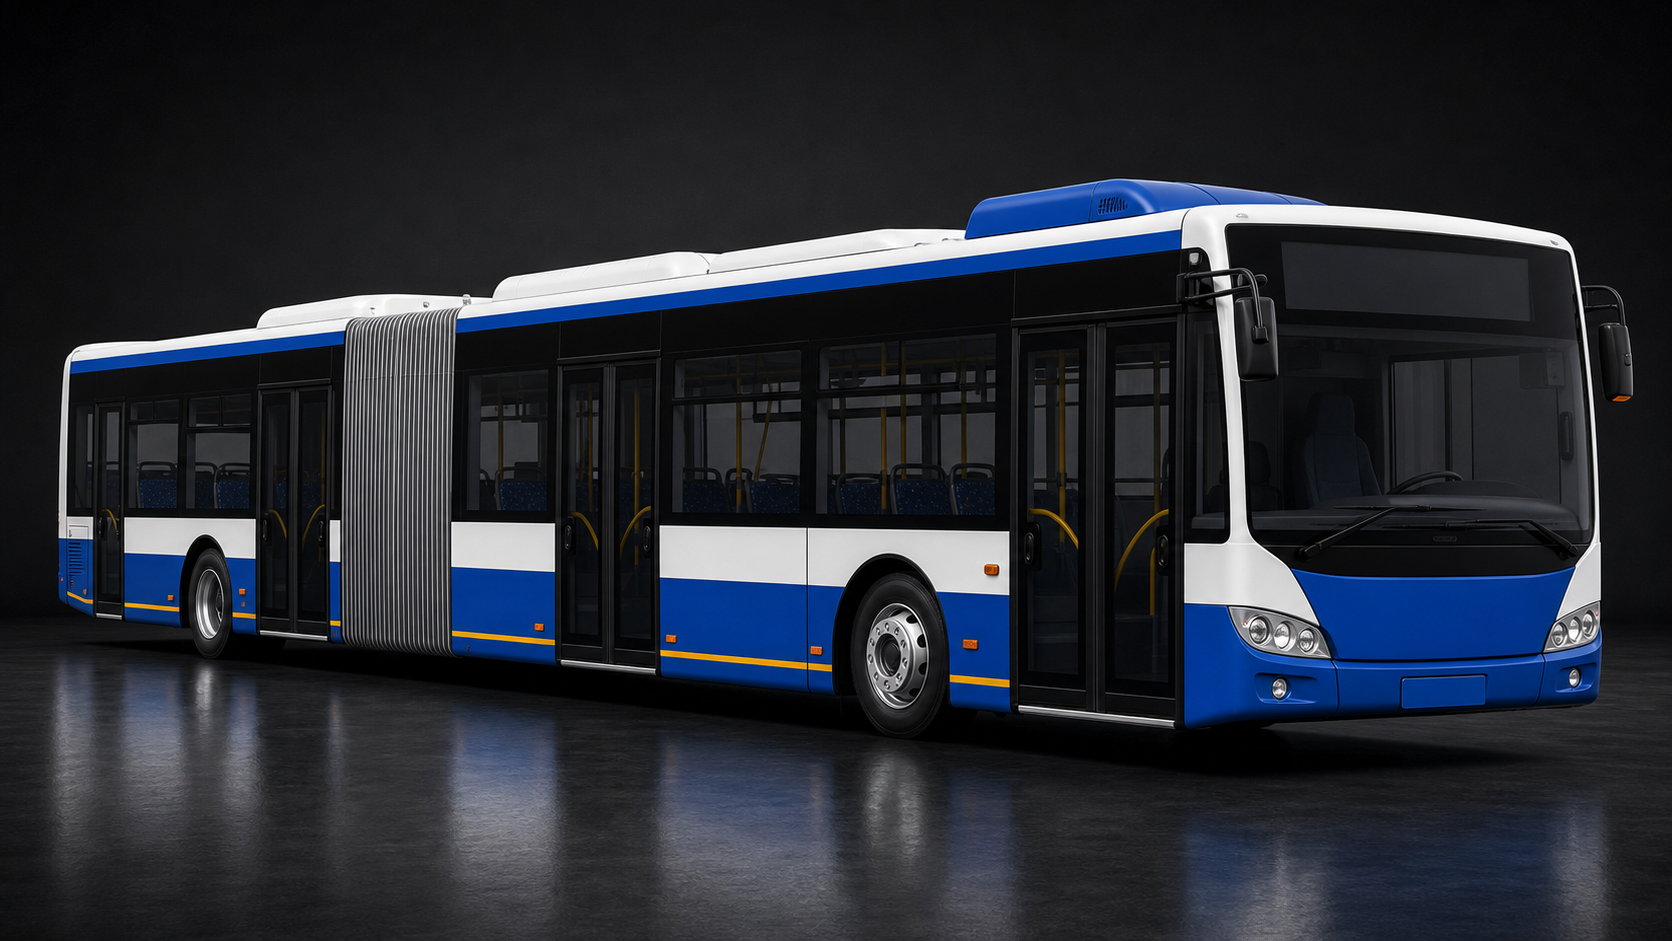
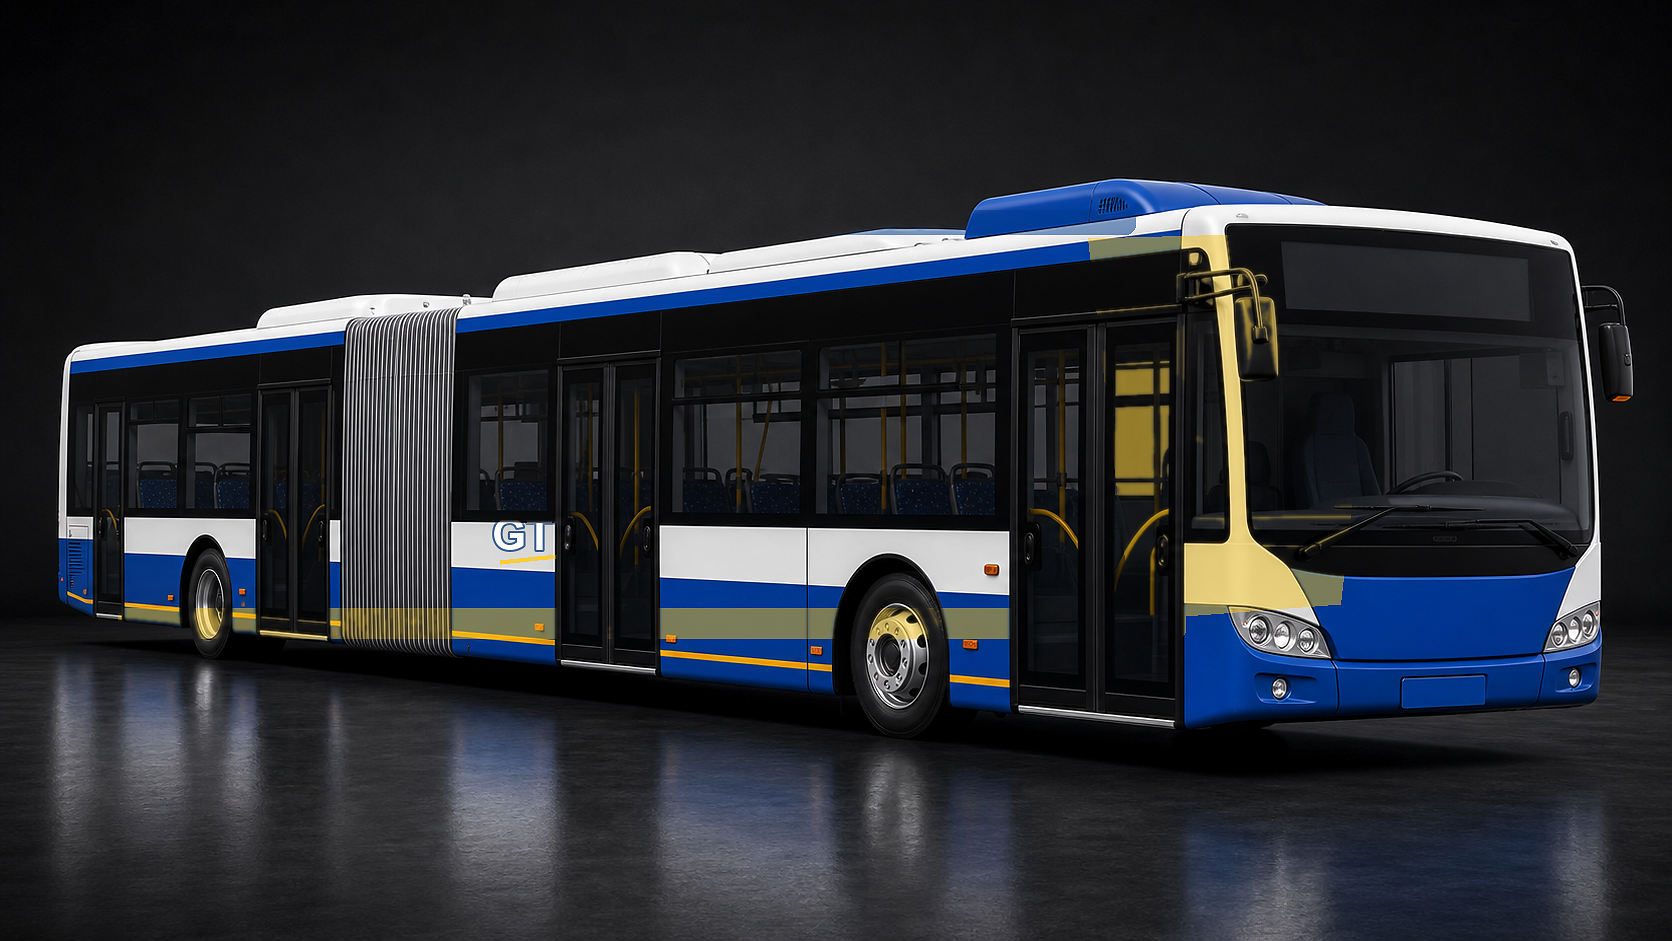
Apply distinct GTT-style liveries to vehicle renders

diff --git a/tools/apply_gtt_liveries.py b/tools/apply_gtt_liveries.py
@@ -1,0 +1,125 @@
+from __future__ import annotations
+
+from pathlib import Path
+from PIL import Image, ImageChops, ImageDraw, ImageFilter, ImageFont
+
+
+ROOT = Path(__file__).resolve().parents[1]
+ASSETS = ROOT / "frontend" / "public" / "assets" / "vehicles" / "detail"
+
+BLUE = (0, 86, 180, 118)
+DEEP_BLUE = (0, 57, 140, 132)
+YELLOW = (236, 238, 35, 142)
+URBAN_YELLOW = (248, 197, 30, 126)
+WHITE = (246, 248, 250, 218)
+SUBURBAN_BLUE = (0, 100, 190, 126)
+
+
+def font(size: int) -> ImageFont.FreeTypeFont | ImageFont.ImageFont:
+    for path in (
+        "/System/Library/Fonts/Supplemental/Arial Bold.ttf",
+        "/System/Library/Fonts/Helvetica.ttc",
+        "/Library/Fonts/Arial Bold.ttf",
+    ):
+        try:
+            return ImageFont.truetype(path, size)
+        except OSError:
+            pass
+    return ImageFont.load_default()
+
+
+def soft_polygon(draw: ImageDraw.ImageDraw, points, fill):
+    draw.polygon(points, fill=fill)
+
+
+def rounded_band(draw: ImageDraw.ImageDraw, box, radius, fill):
+    draw.rounded_rectangle(box, radius=radius, fill=fill)
+
+
+def mark(draw: ImageDraw.ImageDraw, x: int, y: int, color=(255, 255, 255, 235), scale=1.0):
+    f = font(int(44 * scale))
+    draw.text((x, y), "GTT", fill=color, font=f, stroke_width=max(1, int(2 * scale)), stroke_fill=(0, 52, 120, 175))
+    # small swoosh-like blue/yellow underline to make it read as operator branding without embedding a copied logo file.
+    draw.line((x + int(8 * scale), y + int(52 * scale), x + int(92 * scale), y + int(43 * scale)), fill=(255, 202, 35, 220), width=max(3, int(5 * scale)))
+
+
+def foreground_mask(img: Image.Image) -> Image.Image:
+    # Studio backgrounds are dark. This keeps livery layers on the vehicle body instead of rectangular overlays.
+    rgb = img.convert("RGB")
+    gray = rgb.convert("L")
+    bright = gray.point(lambda px: 255 if px > 46 else 0)
+    blue = rgb.getchannel("B").point(lambda px: 255 if px > 78 else 0)
+    red = rgb.getchannel("R").point(lambda px: 255 if px > 70 else 0)
+    mask = ImageChops.lighter(bright, ImageChops.lighter(blue, red))
+    # Remove most floor reflection: vehicle body is in the upper/middle part of the render.
+    crop = Image.new("L", img.size, 0)
+    cd = ImageDraw.Draw(crop)
+    cd.rectangle((0, 120, img.width, 665), fill=255)
+    mask = ImageChops.multiply(mask, crop)
+    return mask.filter(ImageFilter.GaussianBlur(1.3))
+
+
+def clip_to_vehicle(img: Image.Image, overlay: Image.Image) -> Image.Image:
+    alpha = overlay.getchannel("A")
+    clipped_alpha = ImageChops.multiply(alpha, foreground_mask(img))
+    overlay.putalpha(clipped_alpha)
+    return overlay
+
+
+def apply_overlay(filename: str, mode: str):
+    path = ASSETS / filename
+    img = Image.open(path).convert("RGBA")
+    overlay = Image.new("RGBA", img.size, (0, 0, 0, 0))
+    d = ImageDraw.Draw(overlay)
+
+    if mode == "electric":
+        # Real GTT electric fleet is visually much more blue/yellow than the previous generic blue-white render.
+        soft_polygon(d, [(1035, 232), (1345, 226), (1320, 604), (1088, 618)], YELLOW)
+        rounded_band(d, (148, 214, 1030, 242), 12, YELLOW)
+        soft_polygon(d, [(95, 482), (985, 482), (955, 625), (85, 620)], BLUE)
+        rounded_band(d, (135, 612, 1018, 640), 8, YELLOW)
+        mark(d, 360, 510, color=(255, 255, 255, 240), scale=1.0)
+
+    elif mode == "cng":
+        soft_polygon(d, [(1092, 240), (1350, 232), (1320, 608), (1130, 622)], URBAN_YELLOW)
+        rounded_band(d, (150, 612, 1024, 640), 8, URBAN_YELLOW)
+        rounded_band(d, (292, 212, 990, 234), 10, DEEP_BLUE)
+        mark(d, 390, 515, color=(255, 255, 255, 238), scale=0.95)
+
+    elif mode == "articulated":
+        soft_polygon(d, [(1088, 238), (1382, 230), (1340, 604), (1132, 620)], URBAN_YELLOW)
+        rounded_band(d, (118, 608, 1185, 638), 8, URBAN_YELLOW)
+        rounded_band(d, (240, 210, 1135, 234), 10, DEEP_BLUE)
+        mark(d, 492, 510, color=(255, 255, 255, 238), scale=1.0)
+
+    elif mode == "suburban":
+        # Suburban/interurban GTT buses read as blue coaches: reduce the urban white/blue split.
+        soft_polygon(d, [(130, 224), (1198, 224), (1160, 602), (122, 620)], SUBURBAN_BLUE)
+        rounded_band(d, (170, 246, 1090, 276), 12, (225, 236, 246, 92))
+        rounded_band(d, (172, 615, 1094, 642), 8, URBAN_YELLOW)
+        mark(d, 420, 515, color=(255, 255, 255, 240), scale=1.0)
+
+    elif mode == "tram":
+        rounded_band(d, (170, 575, 1235, 615), 8, URBAN_YELLOW)
+        soft_polygon(d, [(1040, 240), (1380, 230), (1340, 590), (1090, 610)], DEEP_BLUE)
+        mark(d, 560, 505, color=(255, 255, 255, 238), scale=1.0)
+
+    overlay = clip_to_vehicle(img, overlay)
+    composed = Image.alpha_composite(img, overlay)
+    # Slight unsharp after overlays so the bands do not look blurred when scaled in the sheet.
+    composed = composed.filter(ImageFilter.UnsharpMask(radius=0.6, percent=115, threshold=3))
+    composed.save(path)
+
+
+def main():
+    apply_overlay("byd-k9-electric-12m-real-3d.png", "electric")
+    apply_overlay("iia-citymood-cng-12m-real-3d.png", "cng")
+    apply_overlay("iveco-urbanway-cng-18m-real-3d.png", "articulated")
+    apply_overlay("mercedes-conecto-18m-3d.png", "articulated")
+    apply_overlay("urban-articulated-18m-3d-v2.png", "articulated")
+    apply_overlay("iveco-crossway-suburban-real-3d.png", "suburban")
+    apply_overlay("tram-3d.png", "tram")
+
+
+if __name__ == "__main__":
+    main()
